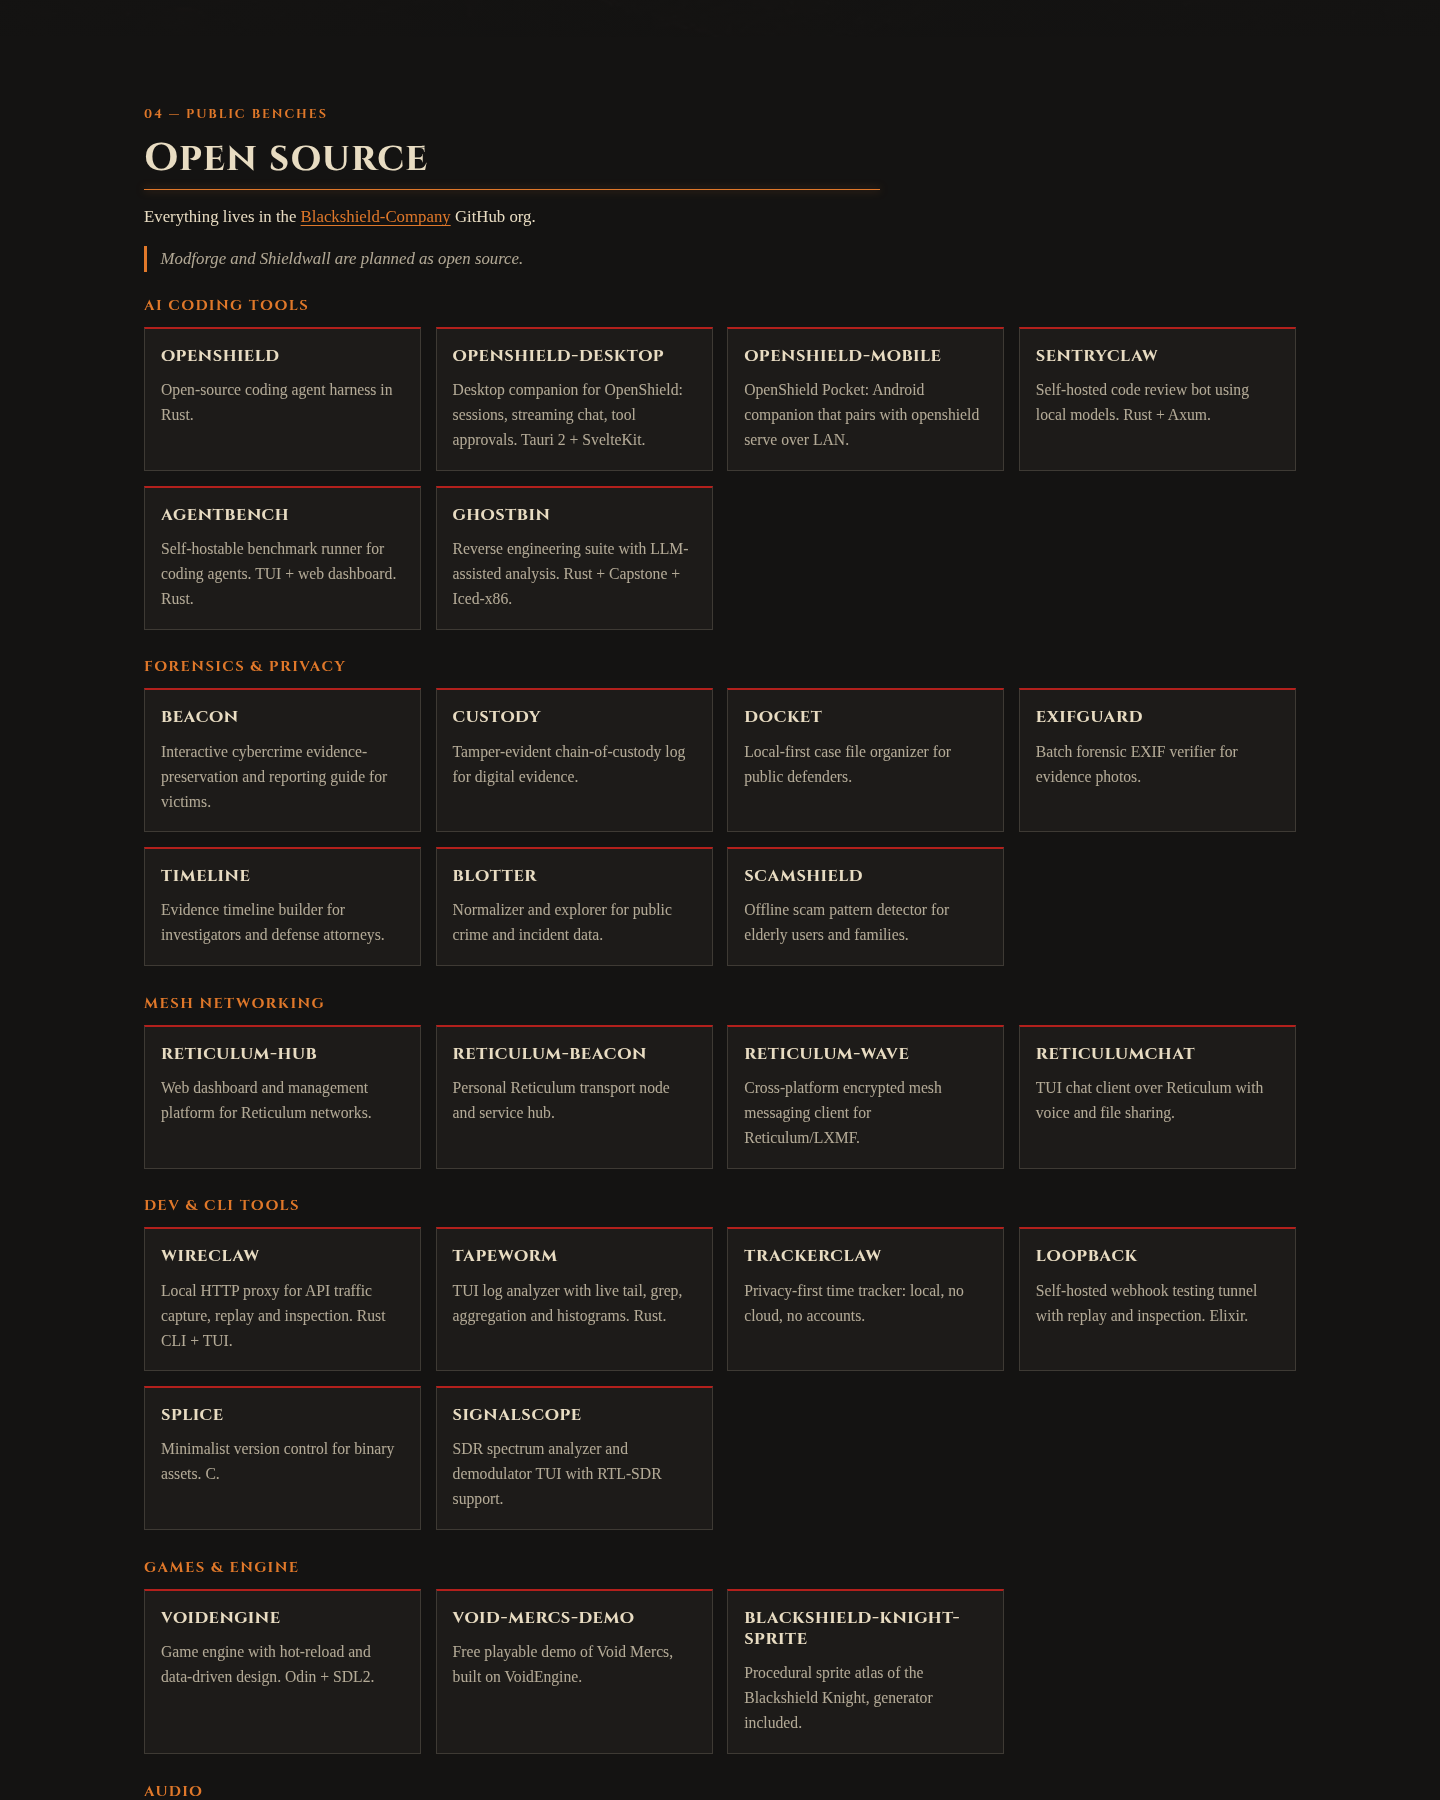
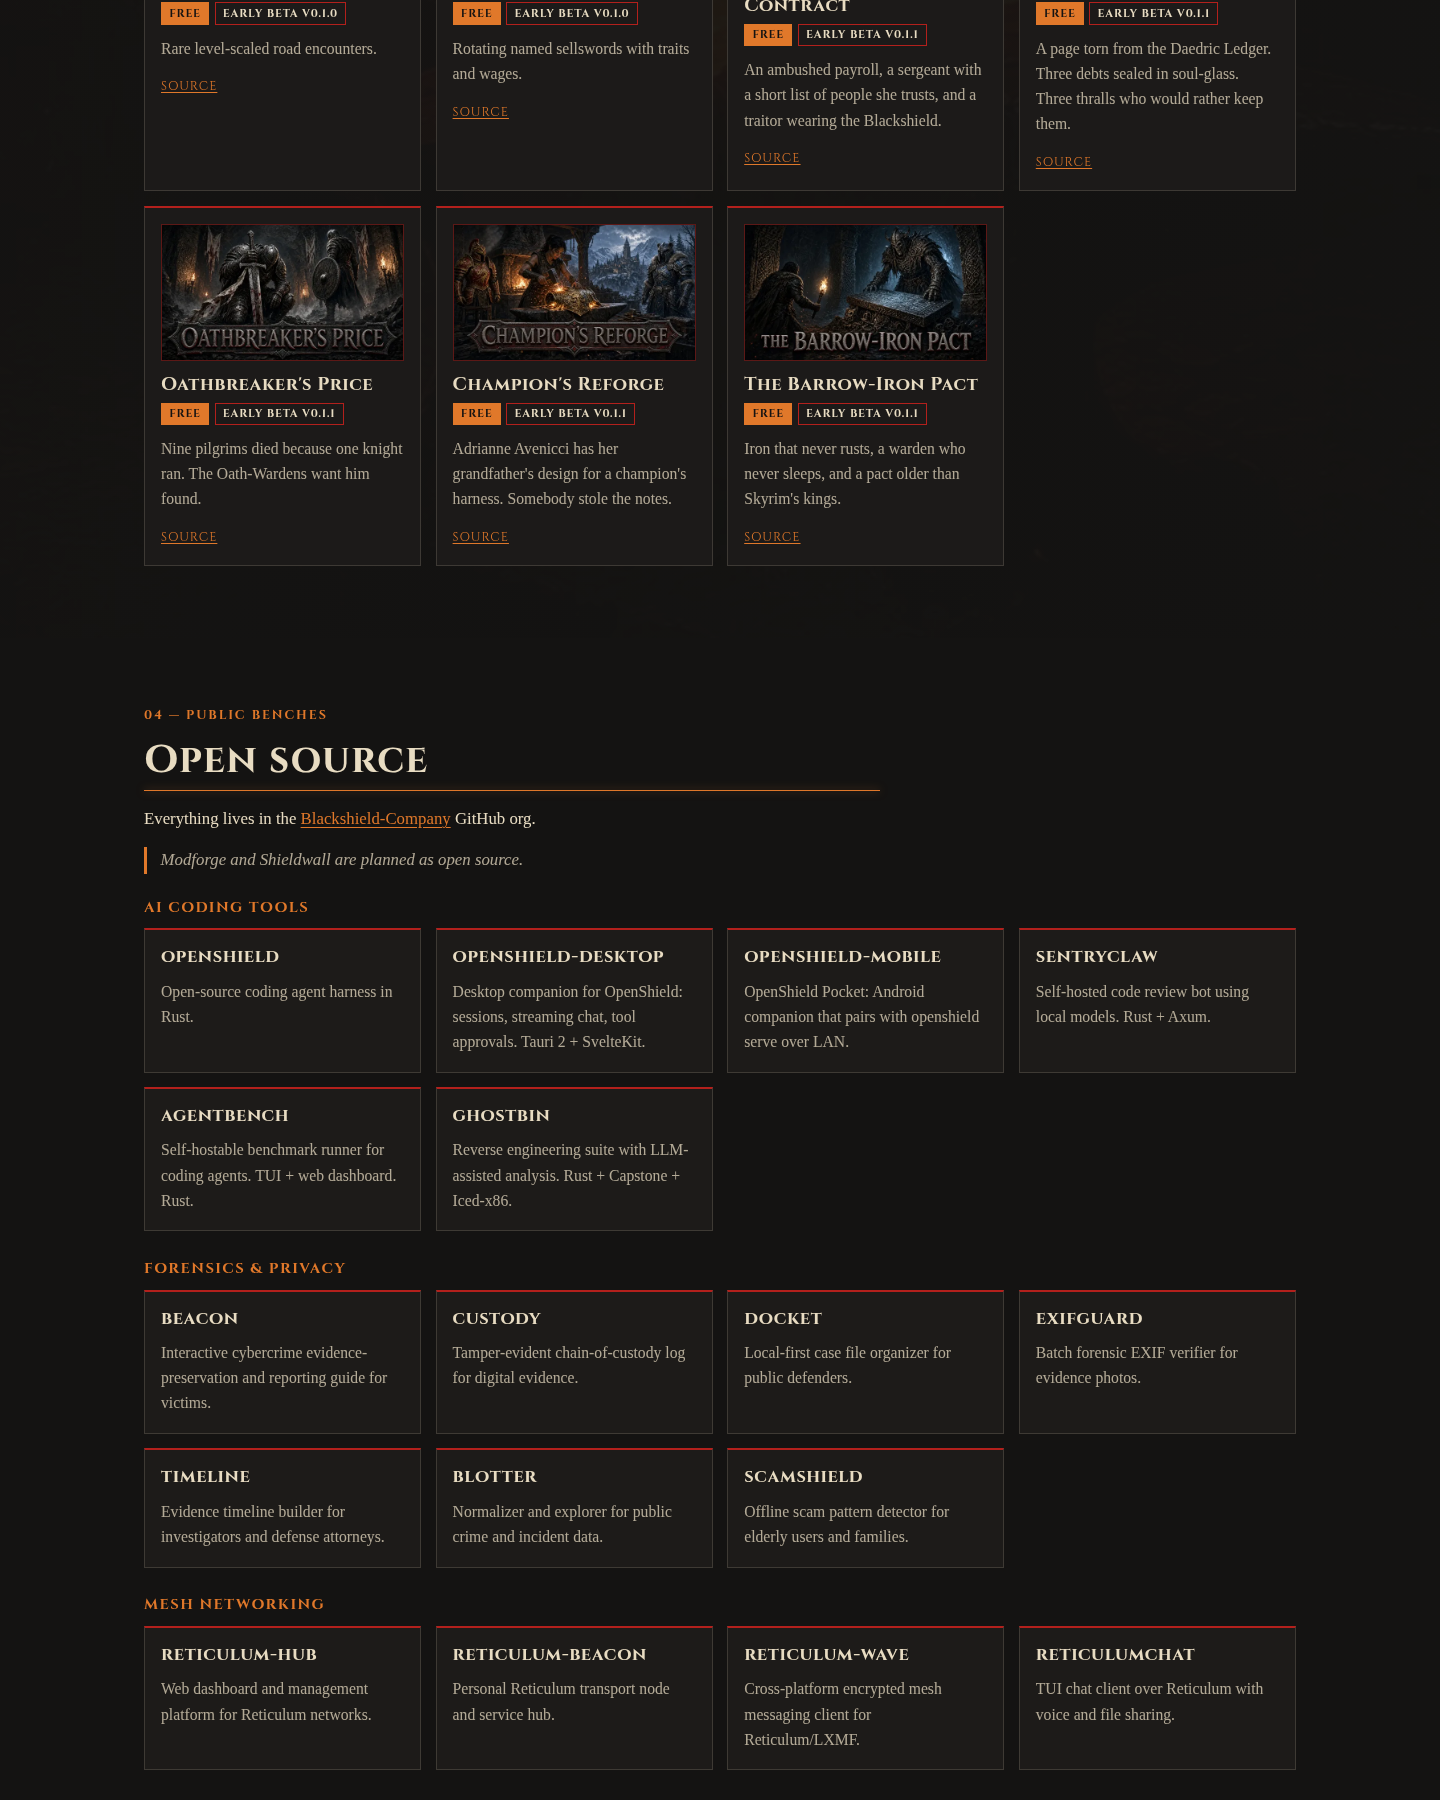
Add cover art panels to Skyrim mod cards; quest mods v0.1.1

diff --git a/index.html b/index.html
@@ -222,10 +222,11 @@
         <div class="section-head">
           <p class="eyebrow">03 — Nexus</p>
           <h2 id="mods-title">Skyrim mods</h2>
-          <p class="note">Skyrim SE/AE, ESL, no SKSE. Every mod below is free and labelled Early beta v0.1.0.</p>
+          <p class="note">Skyrim SE/AE, ESL, no SKSE. Every mod below is free and in early beta.</p>
         </div>
         <div class="grid">
           <article class="card card-solid reveal">
+            <figure class="mod-art"><img src="assets/img/mods/blackshield-company.webp" alt="Cover art for Blackshield Company, a Skyrim mod: join a mercenary company, radiant contracts" width="600" height="338" loading="lazy" decoding="async"></figure>
             <div class="card-top">
               <h3><a href="https://www.nexusmods.com/skyrimspecialedition/mods/194203">Blackshield Company</a></h3>
               <span class="badge-row">
@@ -237,6 +238,7 @@
             <p><a class="card-source" href="https://github.com/Blackshield-Company/blackshield-company">Source</a></p>
           </article>
           <article class="card card-solid reveal">
+            <figure class="mod-art"><img src="assets/img/mods/bounties-of-oblivion.webp" alt="Cover art for Daedric Ledger - Bounties of Oblivion, a Skyrim mod: radiant Daedric Prince tasks" width="600" height="338" loading="lazy" decoding="async"></figure>
             <div class="card-top">
               <h3><a href="https://www.nexusmods.com/skyrimspecialedition/mods/194204">Daedric Ledger - Bounties of Oblivion</a></h3>
               <span class="badge-row">
@@ -248,6 +250,7 @@
             <p><a class="card-source" href="https://github.com/Blackshield-Company/bounties-of-oblivion">Source</a></p>
           </article>
           <article class="card card-solid reveal">
+            <figure class="mod-art"><img src="assets/img/mods/contract-hunter.webp" alt="Cover art for Contract Hunter, a Skyrim mod: solo bounty hunting, named outlaws" width="600" height="338" loading="lazy" decoding="async"></figure>
             <div class="card-top">
               <h3><a href="https://www.nexusmods.com/skyrimspecialedition/mods/194206">Contract Hunter</a></h3>
               <span class="badge-row">
@@ -259,6 +262,7 @@
             <p><a class="card-source" href="https://github.com/Blackshield-Company/contract-hunter">Source</a></p>
           </article>
           <article class="card card-solid reveal">
+            <figure class="mod-art"><img src="assets/img/mods/steel-oath.webp" alt="Cover art for Steel Oath, a Skyrim mod: warrior's oaths and oathbreaker penalties" width="600" height="338" loading="lazy" decoding="async"></figure>
             <div class="card-top">
               <h3><a href="https://www.nexusmods.com/skyrimspecialedition/mods/194208">Steel Oath</a></h3>
               <span class="badge-row">
@@ -270,6 +274,7 @@
             <p><a class="card-source" href="https://github.com/Blackshield-Company/steel-oath">Source</a></p>
           </article>
           <article class="card card-solid reveal">
+            <figure class="mod-art"><img src="assets/img/mods/ember-smithing.webp" alt="Cover art for Ember Smithing, a Skyrim mod: heat-tempering tiers and engraved armor" width="600" height="338" loading="lazy" decoding="async"></figure>
             <div class="card-top">
               <h3><a href="https://www.nexusmods.com/skyrimspecialedition/mods/194210">Ember Smithing</a></h3>
               <span class="badge-row">
@@ -281,6 +286,7 @@
             <p><a class="card-source" href="https://github.com/Blackshield-Company/ember-smithing">Source</a></p>
           </article>
           <article class="card card-solid reveal">
+            <figure class="mod-art"><img src="assets/img/mods/the-gray-mane-debt.webp" alt="Cover art for The Gray-Mane Debt, a Skyrim mod: Eorlund's stolen Skyforge pattern" width="600" height="338" loading="lazy" decoding="async"></figure>
             <div class="card-top">
               <h3><a href="https://www.nexusmods.com/skyrimspecialedition/mods/194214">The Gray-Mane Debt</a></h3>
               <span class="badge-row">
@@ -292,6 +298,7 @@
             <p><a class="card-source" href="https://github.com/Blackshield-Company/the-gray-mane-debt">Source</a></p>
           </article>
           <article class="card card-solid reveal">
+            <figure class="mod-art"><img src="assets/img/mods/blackshield-codex.webp" alt="Cover art for Blackshield Codex, a Skyrim mod: an integration plugin linking the Blackshield mods" width="600" height="338" loading="lazy" decoding="async"></figure>
             <div class="card-top">
               <h3><a href="https://www.nexusmods.com/skyrimspecialedition/mods/194216">Blackshield Codex</a></h3>
               <span class="badge-row">
@@ -303,6 +310,7 @@
             <p><a class="card-source" href="https://github.com/Blackshield-Company/blackshield-codex">Source</a></p>
           </article>
           <article class="card card-solid reveal">
+            <figure class="mod-art"><img src="assets/img/mods/war-banners.webp" alt="Cover art for War Banners, a Skyrim mod: craftable war standards that rally followers" width="600" height="338" loading="lazy" decoding="async"></figure>
             <div class="card-top">
               <h3><a href="https://www.nexusmods.com/skyrimspecialedition/mods/194220">War Banners</a></h3>
               <span class="badge-row">
@@ -314,6 +322,7 @@
             <p><a class="card-source" href="https://github.com/Blackshield-Company/war-banners">Source</a></p>
           </article>
           <article class="card card-solid reveal">
+            <figure class="mod-art"><img src="assets/img/mods/roadwarden.webp" alt="Cover art for Roadwarden, a Skyrim mod: rare level-scaled road encounters" width="600" height="338" loading="lazy" decoding="async"></figure>
             <div class="card-top">
               <h3><a href="https://www.nexusmods.com/skyrimspecialedition/mods/194222">Roadwarden</a></h3>
               <span class="badge-row">
@@ -325,6 +334,7 @@
             <p><a class="card-source" href="https://github.com/Blackshield-Company/roadwarden">Source</a></p>
           </article>
           <article class="card card-solid reveal">
+            <figure class="mod-art"><img src="assets/img/mods/sellsword-roster.webp" alt="Cover art for Sellsword Roster, a Skyrim mod: rotating named sellswords with traits and wages" width="600" height="338" loading="lazy" decoding="async"></figure>
             <div class="card-top">
               <h3><a href="https://www.nexusmods.com/skyrimspecialedition/mods/194224">Sellsword Roster</a></h3>
               <span class="badge-row">
@@ -336,55 +346,60 @@
             <p><a class="card-source" href="https://github.com/Blackshield-Company/sellsword-roster">Source</a></p>
           </article>
           <article class="card card-solid reveal">
+            <figure class="mod-art"><img src="assets/img/mods/the-turncoat-contract.webp" alt="Cover art for The Turncoat Contract, a Skyrim mod: an ambushed payroll and a traitor wearing the Blackshield" width="600" height="338" loading="lazy" decoding="async"></figure>
             <div class="card-top">
               <h3><a href="https://www.nexusmods.com/skyrimspecialedition/mods/194333">The Turncoat Contract</a></h3>
               <span class="badge-row">
                 <span class="badge badge-free">Free</span>
-                <span class="badge badge-beta">Early beta v0.1.0</span>
+                <span class="badge badge-beta">Early beta v0.1.1</span>
               </span>
             </div>
             <p>An ambushed payroll, a sergeant with a short list of people she trusts, and a traitor wearing the Blackshield.</p>
             <p><a class="card-source" href="https://github.com/Blackshield-Company/the-turncoat-contract">Source</a></p>
           </article>
           <article class="card card-solid reveal">
+            <figure class="mod-art"><img src="assets/img/mods/the-ledger-of-ash.webp" alt="Cover art for The Ledger of Ash, a Skyrim mod: three debts sealed in soul-glass" width="600" height="338" loading="lazy" decoding="async"></figure>
             <div class="card-top">
               <h3><a href="https://www.nexusmods.com/skyrimspecialedition/mods/194334">The Ledger of Ash</a></h3>
               <span class="badge-row">
                 <span class="badge badge-free">Free</span>
-                <span class="badge badge-beta">Early beta v0.1.0</span>
+                <span class="badge badge-beta">Early beta v0.1.1</span>
               </span>
             </div>
             <p>A page torn from the Daedric Ledger. Three debts sealed in soul-glass. Three thralls who would rather keep them.</p>
             <p><a class="card-source" href="https://github.com/Blackshield-Company/the-ledger-of-ash">Source</a></p>
           </article>
           <article class="card card-solid reveal">
+            <figure class="mod-art"><img src="assets/img/mods/oathbreakers-price.webp" alt="Cover art for Oathbreaker's Price, a Skyrim mod: nine pilgrims died because one knight ran" width="600" height="338" loading="lazy" decoding="async"></figure>
             <div class="card-top">
               <h3><a href="https://www.nexusmods.com/skyrimspecialedition/mods/194335">Oathbreaker's Price</a></h3>
               <span class="badge-row">
                 <span class="badge badge-free">Free</span>
-                <span class="badge badge-beta">Early beta v0.1.0</span>
+                <span class="badge badge-beta">Early beta v0.1.1</span>
               </span>
             </div>
             <p>Nine pilgrims died because one knight ran. The Oath-Wardens want him found.</p>
             <p><a class="card-source" href="https://github.com/Blackshield-Company/oathbreakers-price">Source</a></p>
           </article>
           <article class="card card-solid reveal">
+            <figure class="mod-art"><img src="assets/img/mods/champions-reforge.webp" alt="Cover art for Champion's Reforge, a Skyrim mod: a stolen design for a champion's harness" width="600" height="338" loading="lazy" decoding="async"></figure>
             <div class="card-top">
               <h3><a href="https://www.nexusmods.com/skyrimspecialedition/mods/194336">Champion's Reforge</a></h3>
               <span class="badge-row">
                 <span class="badge badge-free">Free</span>
-                <span class="badge badge-beta">Early beta v0.1.0</span>
+                <span class="badge badge-beta">Early beta v0.1.1</span>
               </span>
             </div>
             <p>Adrianne Avenicci has her grandfather's design for a champion's harness. Somebody stole the notes.</p>
             <p><a class="card-source" href="https://github.com/Blackshield-Company/champions-reforge">Source</a></p>
           </article>
           <article class="card card-solid reveal">
+            <figure class="mod-art"><img src="assets/img/mods/barrow-iron-pact.webp" alt="Cover art for The Barrow-Iron Pact, a Skyrim mod: iron that never rusts and a pact older than Skyrim's kings" width="600" height="338" loading="lazy" decoding="async"></figure>
             <div class="card-top">
               <h3><a href="https://www.nexusmods.com/skyrimspecialedition/mods/194337">The Barrow-Iron Pact</a></h3>
               <span class="badge-row">
                 <span class="badge badge-free">Free</span>
-                <span class="badge badge-beta">Early beta v0.1.0</span>
+                <span class="badge badge-beta">Early beta v0.1.1</span>
               </span>
             </div>
             <p>Iron that never rusts, a warden who never sleeps, and a pact older than Skyrim's kings.</p>

diff --git a/style.css b/style.css
@@ -448,6 +448,39 @@ p {
   background: rgba(29, 27, 25, 0.94);
 }
 
+.mod-art {
+  aspect-ratio: 16 / 9;
+  overflow: hidden;
+  margin: 0 0 0.85rem;
+  border: 1px solid rgba(179, 32, 28, 0.45);
+  background: var(--char);
+  position: relative;
+}
+
+.mod-art img {
+  width: 100%;
+  height: 100%;
+  object-fit: cover;
+  display: block;
+  position: absolute;
+  inset: 0;
+  transform: scale(1);
+  transition: transform 0.35s ease;
+}
+
+.card:hover .mod-art img,
+.card:focus-within .mod-art img {
+  transform: scale(1.06);
+}
+
+.mod-art--placeholder {
+  background: var(--char) url("assets/img/crest.webp") center / contain no-repeat;
+}
+
+.mod-art--placeholder img {
+  object-fit: contain;
+}
+
 .repo-groups {
   display: grid;
   grid-template-columns: repeat(2, minmax(0, 1fr));
@@ -1086,6 +1119,8 @@ html.js .card.reveal.is-visible:focus-within {
   html.js .card.reveal.is-visible:focus-within,
   .card:hover,
   .card:focus-within,
+  .card:hover .mod-art img,
+  .card:focus-within .mod-art img,
   .hero-copy .eyebrow,
   .hero-copy h1,
   .hero-copy .lede,
